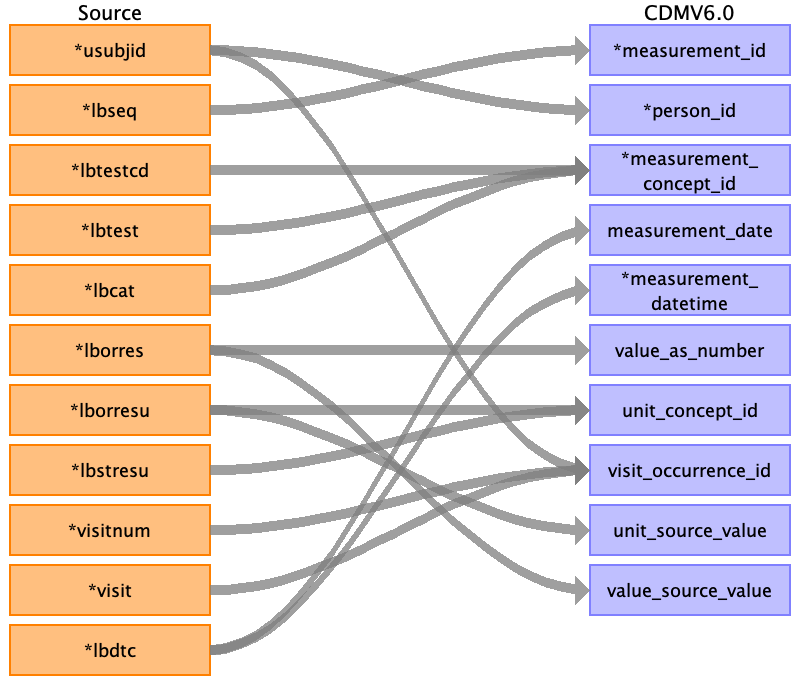
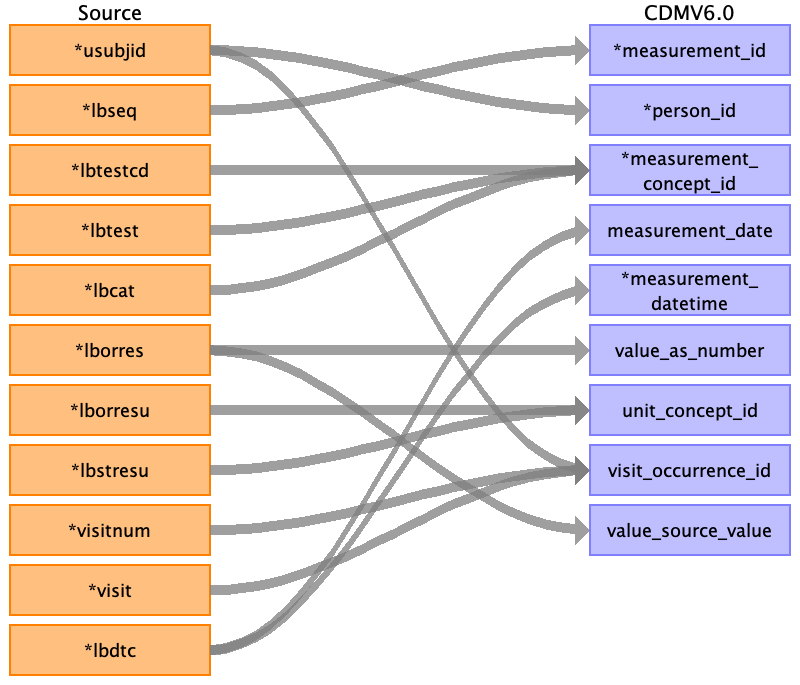
merged lbch into measurement.md

Changed region(s): [[0.3125, 0.5212, 1.0, 0.9197]]

diff --git a/docs/measurement.md b/docs/measurement.md
@@ -27,3 +27,34 @@
 | unit_source_value | qsorresu |  | UCUM concept correlation can be made to UCUM ID=8555 has Code=s with Name=second. In SDTM, the qsorresu and qsstresu have the controlled terminology of "sec". For mapping, either the original (qsorresu) or standard (qsstresu) must be selected. This should also be done consistently throughout the mapping process. In this example, the original (qsorresu) was mapped. |
 | value_source_value | qsorres |  | In SDTM, qsorres can be up to VARCHAR(200), which needs to be factored in. For mapping, either the original (qsorres) or standard (qsstresc/qsstresn) must be selected. This should also be done consistently throughout the mapping process. In this example, the original (qsorres) was mapped. |
 
+</br></br>
+
+### Reading from lbch.csv
+
+</br></br>
+
+![](md_files/image1_lbch.png)
+
+| Destination Field | Source field | Logic | Comment field |
+| --- | --- | --- | --- |
+| measurement_id | lbseq |  |  |
+| person_id | usubjid |  |  |
+| measurement_concept_id | lbtestcd<br>lbcat<br>lbtest |  |  |
+| measurement_date | lbdtc |  |  |
+| measurement_datetime | lbdtc |  |  |
+| measurement_time |  |  |  |
+| measurement_type_concept_id |  |  |  |
+| operator_concept_id |  |  |  |
+| value_as_number | lborres |  |  |
+| value_as_concept_id |  |  |  |
+| unit_concept_id | lborresu<br>lbstresu |  |  |
+| range_low |  |  |  |
+| range_high |  |  |  |
+| provider_id |  |  |  |
+| visit_occurrence_id | usubjid<br>visitnum<br>visit |  |  |
+| visit_detail_id |  |  |  |
+| measurement_source_value |  |  |  |
+| measurement_source_concept_id |  |  |  |
+| unit_source_value |  |  |  |
+| value_source_value | lborres |  |  |
+
